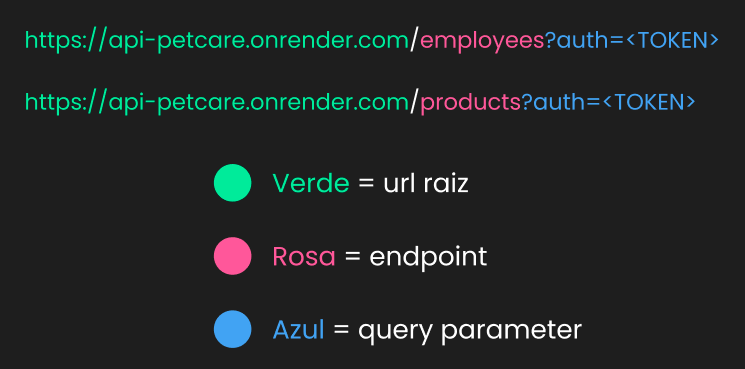
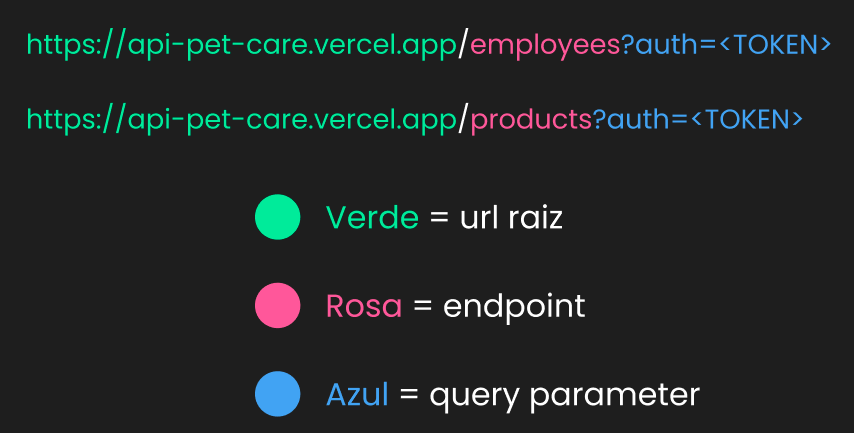
refact: clean and adjust all links to refer Vercel deploy, change image exemple and add warning about token.

diff --git a/templates/index.html b/templates/index.html
@@ -155,7 +155,7 @@
 
                 <div class="w-full flex gap-3 flex-col md:flex-row ">
                     <div class="w-full max-w-[800px] text-center self-center">
-                        O deploy pela plataforma <a href="https://render.com" target="_blank" rel="noopener noreferrer" class="underline decoration-green_petcare">Render</a>, no plano gratuito (utilizado para esta API), deixa o <strong class="font-normal text-light_blue">servidor inativo</strong> após  15 minutos sem requisições! Portanto, caso sua primeira requisição demore, <strong class="font-normal text-pink_petcare">é só aguardar</strong>, não demora muito.
+                        Até o período de entrega do trabalho, o token de segurança será disponibilizado somente para os desenvolvedores envolvidos no projeto. Assim que entregue, o projeto tera o token exibido no github: <a href="https://github.com/Arthur-Mendes-M/API_PetCare" target="_blank" rel="noopener noreferrer"><u class="decoration-green_petcare text-green_petcare decoration-wavy">Arthur-Mendes-M</u></a>
                     </div>
     
                     <span class="h-[1px] w-1/2 translate-x-1/2 my-1 md:h-1/2 md:w-[1px] md:translate-y-1/2 md:mx-1 bg-pink_petcare"></span>
@@ -183,7 +183,7 @@
                         O token é lido através do <u class="no-underline text-pink_petcare">query parameter</u> (parâmetro de busca) nomeado <code class="bg-light_blue text-white p-1">auth</code> onde, na url do endpoint a ser utilizado, é necessário específica-lo. Como no <u class="no-underline text-dark_blue">exemplo</u>:
     
                         <code class="mt-3 p-2 block rounded-md border border-dark_blue shadow-xl break-words">
-                            https://api-petcare.onrender.com/employees<u class="no-underline text-green_petcare font-bold">?auth=&lt;TOKEN&gt;</u>
+                            https://api-pet-care.vercel.app/employees<u class="no-underline text-green_petcare font-bold">?auth=&lt;TOKEN&gt;</u>
                         </code>
                         <small class="italic w-full">Obs: os caracteres "&lt;" e "&gt;" devem ser removidos em todos as url's. Servem somente para dar enfase no que deve ser passado.</small>
                     </p>
@@ -243,7 +243,7 @@
                     <div class="mb-3 w-full">
                         <code class="block rounded-md border border-pink_petcare shadow-xl break-words md:flex md:justify-between">
                             <p class="px-2 py-2 w-fit self-center break-all" data-clipboard-text>
-                                https://api-petcare.onrender.com/<u class="no-underline text-pink_petcare font-bold">employees</u>?auth=&lt;TOKEN&gt;</u>
+                                https://api-pet-care.vercel.app/<u class="no-underline text-pink_petcare font-bold">employees</u>?auth=&lt;TOKEN&gt;</u>
                             </p>
         
                             <div class="relative pl-2 md:pl-0 flex justify-center items-center">
@@ -261,7 +261,7 @@
                     <div class="w-full">
                         <code class="block rounded-md border border-pink_petcare shadow-xl break-words md:flex md:justify-between">
                             <p class="px-2 py-2 w-fit self-center break-all" data-clipboard-text>
-                                https://api-petcare.onrender.com/<u class="no-underline text-pink_petcare font-bold">employees/&lt;id&gt;</u>?auth=&lt;TOKEN&gt;</u>
+                                https://api-pet-care.vercel.app/<u class="no-underline text-pink_petcare font-bold">employees/&lt;id&gt;</u>?auth=&lt;TOKEN&gt;</u>
                             </p>
         
                             <div class="relative pl-2 md:pl-0 flex justify-center items-center">
@@ -446,7 +446,7 @@
                     <p class="text-pink_petcare w-full text-lg mt-3">Endpoint</p>
                     <code class="w-full block rounded-md border border-pink_petcare shadow-xl break-words md:flex md:justify-between">
                         <p class="px-2 py-2 w-fit self-center break-all" data-clipboard-text>
-                            https://api-petcare.onrender.com/<u class="no-underline text-pink_petcare font-bold">employees</u>?auth=&lt;TOKEN&gt;</u>
+                            https://api-pet-care.vercel.app/<u class="no-underline text-pink_petcare font-bold">employees</u>?auth=&lt;TOKEN&gt;</u>
                         </p>
     
                         <div class="relative pl-2 md:pl-0 flex justify-center items-center">
@@ -530,7 +530,7 @@
                     <p class="text-pink_petcare w-full text-lg mt-3">Endpoint</p>
                     <code class="w-full block rounded-md border border-pink_petcare shadow-xl break-words md:flex md:justify-between">
                         <p class="px-2 py-2 w-fit self-center break-all" data-clipboard-text>
-                            https://api-petcare.onrender.com/<u class="no-underline text-pink_petcare font-bold">employees/&lt;id&gt;</u>?auth=&lt;TOKEN&gt;</u>
+                            https://api-pet-care.vercel.app/<u class="no-underline text-pink_petcare font-bold">employees/&lt;id&gt;</u>?auth=&lt;TOKEN&gt;</u>
                         </p>
     
                         <div class="relative pl-2 md:pl-0 flex justify-center items-center">
@@ -612,7 +612,7 @@
                     <p class="text-pink_petcare w-full text-lg mt-3">Endpoint</p>
                     <code class="w-full block rounded-md border border-pink_petcare shadow-xl break-words md:flex md:justify-between">
                         <p class="px-2 py-2 w-fit self-center break-all" data-clipboard-text>
-                            https://api-petcare.onrender.com/<u class="no-underline text-pink_petcare font-bold">employees/&lt;id&gt;</u>?auth=&lt;TOKEN&gt;</u>
+                            https://api-pet-care.vercel.app/<u class="no-underline text-pink_petcare font-bold">employees/&lt;id&gt;</u>?auth=&lt;TOKEN&gt;</u>
                         </p>
     
                         <div class="relative pl-2 md:pl-0 flex justify-center items-center">
@@ -717,7 +717,7 @@
                     <div class="mb-3 w-full">
                         <code class="block rounded-md border border-pink_petcare shadow-xl break-words md:flex md:justify-between">
                             <p class="px-2 py-2 w-fit self-center break-all" data-clipboard-text>
-                                https://api-petcare.onrender.com/<u class="no-underline text-pink_petcare font-bold">products</u>?auth=&lt;TOKEN&gt;</u>
+                                https://api-pet-care.vercel.app/<u class="no-underline text-pink_petcare font-bold">products</u>?auth=&lt;TOKEN&gt;</u>
                             </p>
         
                             <div class="relative pl-2 md:pl-0 flex justify-center items-center">
@@ -735,7 +735,7 @@
                     <div class="w-full">
                         <code class="block rounded-md border border-pink_petcare shadow-xl break-words md:flex md:justify-between">
                             <p class="px-2 py-2 w-fit self-center break-all" data-clipboard-text>
-                                https://api-petcare.onrender.com/<u class="no-underline text-pink_petcare font-bold">products/&lt;id&gt;</u>?auth=&lt;TOKEN&gt;</u>
+                                https://api-pet-care.vercel.app/<u class="no-underline text-pink_petcare font-bold">products/&lt;id&gt;</u>?auth=&lt;TOKEN&gt;</u>
                             </p>
         
                             <div class="relative pl-2 md:pl-0 flex justify-center items-center">
@@ -861,7 +861,7 @@
                     <p class="text-pink_petcare w-full text-lg mt-3">Endpoint</p>
                     <code class="w-full block rounded-md border border-pink_petcare shadow-xl break-words md:flex md:justify-between">
                         <p class="px-2 py-2 w-fit self-center break-all" data-clipboard-text>
-                            https://api-petcare.onrender.com/<u class="no-underline text-pink_petcare font-bold">products</u>?auth=&lt;TOKEN&gt;</u>
+                            https://api-pet-care.vercel.app/<u class="no-underline text-pink_petcare font-bold">products</u>?auth=&lt;TOKEN&gt;</u>
                         </p>
     
                         <div class="relative pl-2 md:pl-0 flex justify-center items-center">
@@ -951,7 +951,7 @@
                     <p class="text-pink_petcare w-full text-lg mt-3">Endpoint</p>
                     <code class="w-full block rounded-md border border-pink_petcare shadow-xl break-words md:flex md:justify-between">
                         <p class="px-2 py-2 w-fit self-center break-all" data-clipboard-text>
-                            https://api-petcare.onrender.com/<u class="no-underline text-pink_petcare font-bold">products/&lt;id&gt;</u>?auth=&lt;TOKEN&gt;</u>
+                            https://api-pet-care.vercel.app/<u class="no-underline text-pink_petcare font-bold">products/&lt;id&gt;</u>?auth=&lt;TOKEN&gt;</u>
                         </p>
     
                         <div class="relative pl-2 md:pl-0 flex justify-center items-center">
@@ -1039,7 +1039,7 @@
                     <p class="text-pink_petcare w-full text-lg mt-3">Endpoint</p>
                     <code class="w-full block rounded-md border border-pink_petcare shadow-xl break-words md:flex md:justify-between">
                         <p class="px-2 py-2 w-fit self-center break-all" data-clipboard-text>
-                            https://api-petcare.onrender.com/<u class="no-underline text-pink_petcare font-bold">products/&lt;id&gt;</u>?auth=&lt;TOKEN&gt;</u>
+                            https://api-pet-care.vercel.app/<u class="no-underline text-pink_petcare font-bold">products/&lt;id&gt;</u>?auth=&lt;TOKEN&gt;</u>
                         </p>
 
                         <div class="relative pl-2 md:pl-0 flex justify-center items-center">
@@ -1144,7 +1144,7 @@
                     <div class="mb-3 w-full">
                         <code class="block rounded-md border border-pink_petcare shadow-xl break-words md:flex md:justify-between">
                             <p class="px-2 py-2 w-fit self-center break-all" data-clipboard-text>
-                                https://api-petcare.onrender.com/<u class="no-underline text-pink_petcare font-bold">clients</u>?auth=&lt;TOKEN&gt;</u>
+                                https://api-pet-care.vercel.app/<u class="no-underline text-pink_petcare font-bold">clients</u>?auth=&lt;TOKEN&gt;</u>
                             </p>
 
                             <div class="relative pl-2 md:pl-0 flex justify-center items-center">
@@ -1162,7 +1162,7 @@
                     <div class="w-full">
                         <code class="block rounded-md border border-pink_petcare shadow-xl break-words md:flex md:justify-between">
                             <p class="px-2 py-2 w-fit self-center break-all" data-clipboard-text>
-                                https://api-petcare.onrender.com/<u class="no-underline text-pink_petcare font-bold">clients/&lt;id&gt;</u>?auth=&lt;TOKEN&gt;</u>
+                                https://api-pet-care.vercel.app/<u class="no-underline text-pink_petcare font-bold">clients/&lt;id&gt;</u>?auth=&lt;TOKEN&gt;</u>
                             </p>
 
                             <div class="relative pl-2 md:pl-0 flex justify-center items-center">
@@ -1350,7 +1350,7 @@
                     <p class="text-pink_petcare w-full text-lg mt-3">Endpoint</p>
                     <code class="w-full block rounded-md border border-pink_petcare shadow-xl break-words md:flex md:justify-between">
                         <p class="px-2 py-2 w-fit self-center break-all" data-clipboard-text>
-                            https://api-petcare.onrender.com/<u class="no-underline text-pink_petcare font-bold">clients</u>?auth=&lt;TOKEN&gt;</u>
+                            https://api-pet-care.vercel.app/<u class="no-underline text-pink_petcare font-bold">clients</u>?auth=&lt;TOKEN&gt;</u>
                         </p>
 
                         <div class="relative pl-2 md:pl-0 flex justify-center items-center">
@@ -1436,7 +1436,7 @@
                     <p class="text-pink_petcare w-full text-lg mt-3">Endpoint</p>
                     <code class="w-full block rounded-md border border-pink_petcare shadow-xl break-words md:flex md:justify-between">
                         <p class="px-2 py-2 w-fit self-center break-all" data-clipboard-text>
-                            https://api-petcare.onrender.com/<u class="no-underline text-pink_petcare font-bold">clients/&lt;id&gt;</u>?auth=&lt;TOKEN&gt;</u>
+                            https://api-pet-care.vercel.app/<u class="no-underline text-pink_petcare font-bold">clients/&lt;id&gt;</u>?auth=&lt;TOKEN&gt;</u>
                         </p>
 
                         <div class="relative pl-2 md:pl-0 flex justify-center items-center">
@@ -1521,7 +1521,7 @@
                     <p class="text-pink_petcare w-full text-lg mt-3">Endpoint</p>
                     <code class="w-full block rounded-md border border-pink_petcare shadow-xl break-words md:flex md:justify-between">
                         <p class="px-2 py-2 w-fit self-center break-all" data-clipboard-text>
-                            https://api-petcare.onrender.com/<u class="no-underline text-pink_petcare font-bold">clients/&lt;id&gt;</u>?auth=&lt;TOKEN&gt;</u>
+                            https://api-pet-care.vercel.app/<u class="no-underline text-pink_petcare font-bold">clients/&lt;id&gt;</u>?auth=&lt;TOKEN&gt;</u>
                         </p>
 
                         <div class="relative pl-2 md:pl-0 flex justify-center items-center">
@@ -1623,7 +1623,7 @@
                     <div class="mb-3 w-full">
                         <code class="block rounded-md border border-pink_petcare shadow-xl break-words md:flex md:justify-between">
                             <p class="px-2 py-2 w-fit self-center break-all" data-clipboard-text>
-                                https://api-petcare.onrender.com/<u class="no-underline text-pink_petcare font-bold">sales</u>?auth=&lt;TOKEN&gt;</u>
+                                https://api-pet-care.vercel.app/<u class="no-underline text-pink_petcare font-bold">sales</u>?auth=&lt;TOKEN&gt;</u>
                             </p>
 
                             <div class="relative pl-2 md:pl-0 flex justify-center items-center">
@@ -1641,7 +1641,7 @@
                     <div class="mb-3 w-full">
                         <code class="block rounded-md border border-pink_petcare shadow-xl break-words md:flex md:justify-between">
                             <p class="px-2 py-2 w-fit self-center break-all" data-clipboard-text>
-                                https://api-petcare.onrender.com/<u class="no-underline text-pink_petcare font-bold">sales/&lt;id&gt;</u>?auth=&lt;TOKEN&gt;</u>
+                                https://api-pet-care.vercel.app/<u class="no-underline text-pink_petcare font-bold">sales/&lt;id&gt;</u>?auth=&lt;TOKEN&gt;</u>
                             </p>
 
                             <div class="relative pl-2 md:pl-0 flex justify-center items-center">
@@ -1705,7 +1705,7 @@
                                 </code>
     
                                 <small class="italic w-full">
-                                    https://api-petcare.onrender.com/<u class="no-underline text-light_blue font-bold">sales/&lt;id&gt;?completed=true</u>&auth=&lt;TOKEN&gt;
+                                    https://api-pet-care.vercel.app/<u class="no-underline text-light_blue font-bold">sales/&lt;id&gt;?completed=true</u>&auth=&lt;TOKEN&gt;
                                 </small>
                             </div>
 
@@ -1744,7 +1744,7 @@
                                 </code>
     
                                 <small class="italic w-full">
-                                    https://api-petcare.onrender.com/<u class="no-underline text-light_blue font-bold">sales/&lt;id&gt;</u>?auth=&lt;TOKEN&gt;
+                                    https://api-pet-care.vercel.app/<u class="no-underline text-light_blue font-bold">sales/&lt;id&gt;</u>?auth=&lt;TOKEN&gt;
                                 </small>
                             </div>
 
@@ -1867,7 +1867,7 @@
                     <p class="text-pink_petcare w-full text-lg mt-3">Endpoint</p>
                     <code class="w-full block rounded-md border border-pink_petcare shadow-xl break-words md:flex md:justify-between">
                         <p class="px-2 py-2 w-fit self-center break-all" data-clipboard-text>
-                            https://api-petcare.onrender.com/<u class="no-underline text-pink_petcare font-bold">sales</u>?auth=&lt;TOKEN&gt;</u>
+                            https://api-pet-care.vercel.app/<u class="no-underline text-pink_petcare font-bold">sales</u>?auth=&lt;TOKEN&gt;</u>
                         </p>
 
                         <div class="relative pl-2 md:pl-0 flex justify-center items-center">
@@ -1980,7 +1980,7 @@
                     <p class="text-pink_petcare w-full text-lg mt-3">Endpoint</p>
                     <code class="w-full block rounded-md border border-pink_petcare shadow-xl break-words md:flex md:justify-between">
                         <p class="px-2 py-2 w-fit self-center break-all" data-clipboard-text>
-                            https://api-petcare.onrender.com/<u class="no-underline text-pink_petcare font-bold">sales/&lt;id&gt;</u>?auth=&lt;TOKEN&gt;</u>
+                            https://api-pet-care.vercel.app/<u class="no-underline text-pink_petcare font-bold">sales/&lt;id&gt;</u>?auth=&lt;TOKEN&gt;</u>
                         </p>
 
                         <div class="relative pl-2 md:pl-0 flex justify-center items-center">
